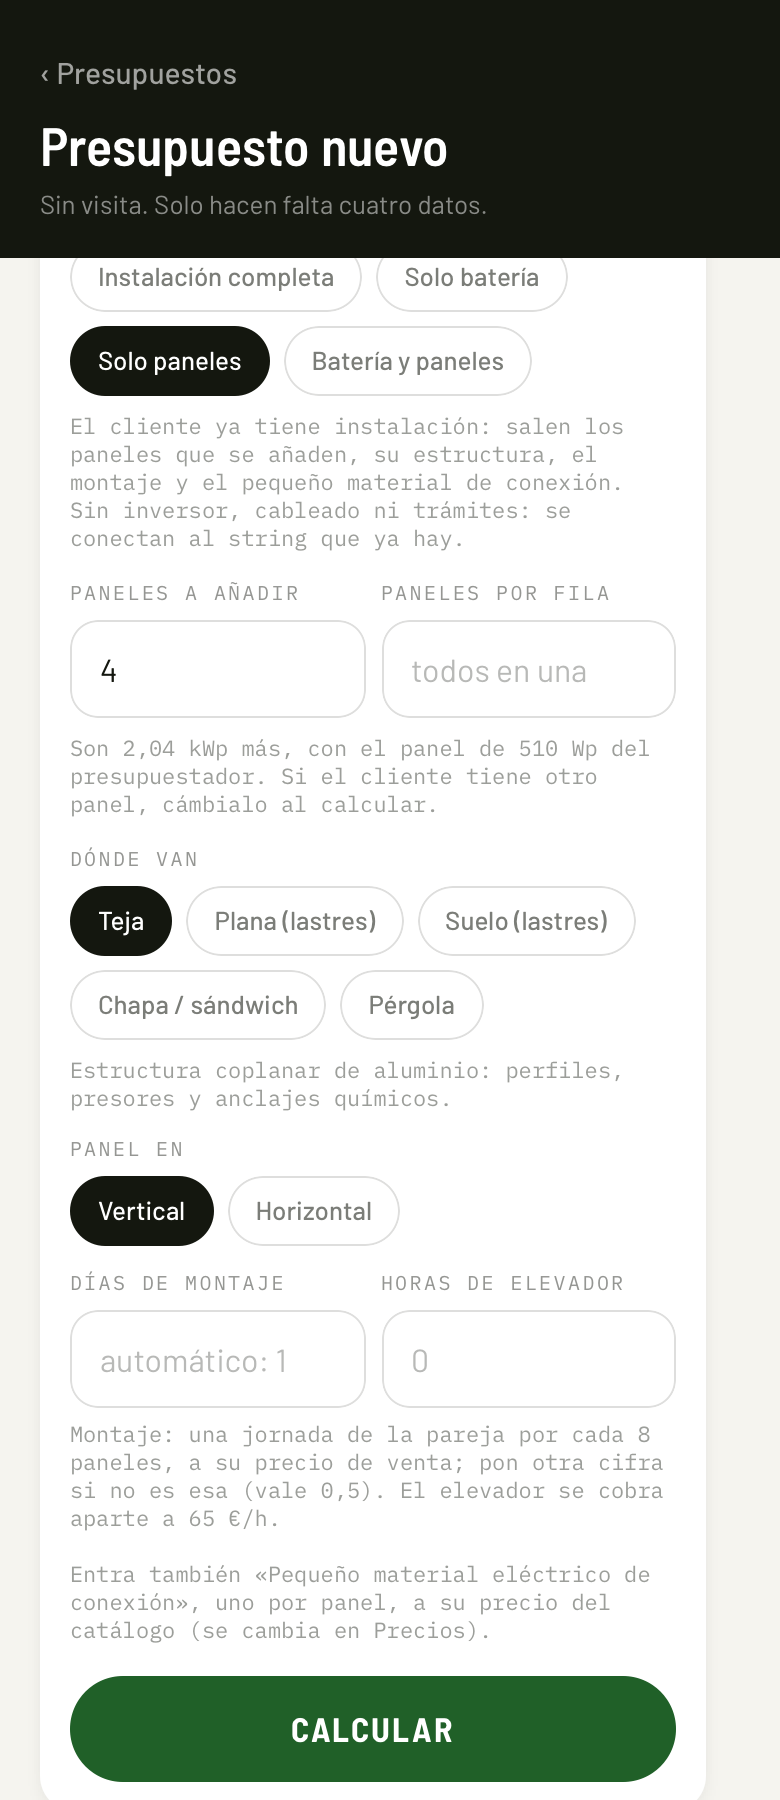
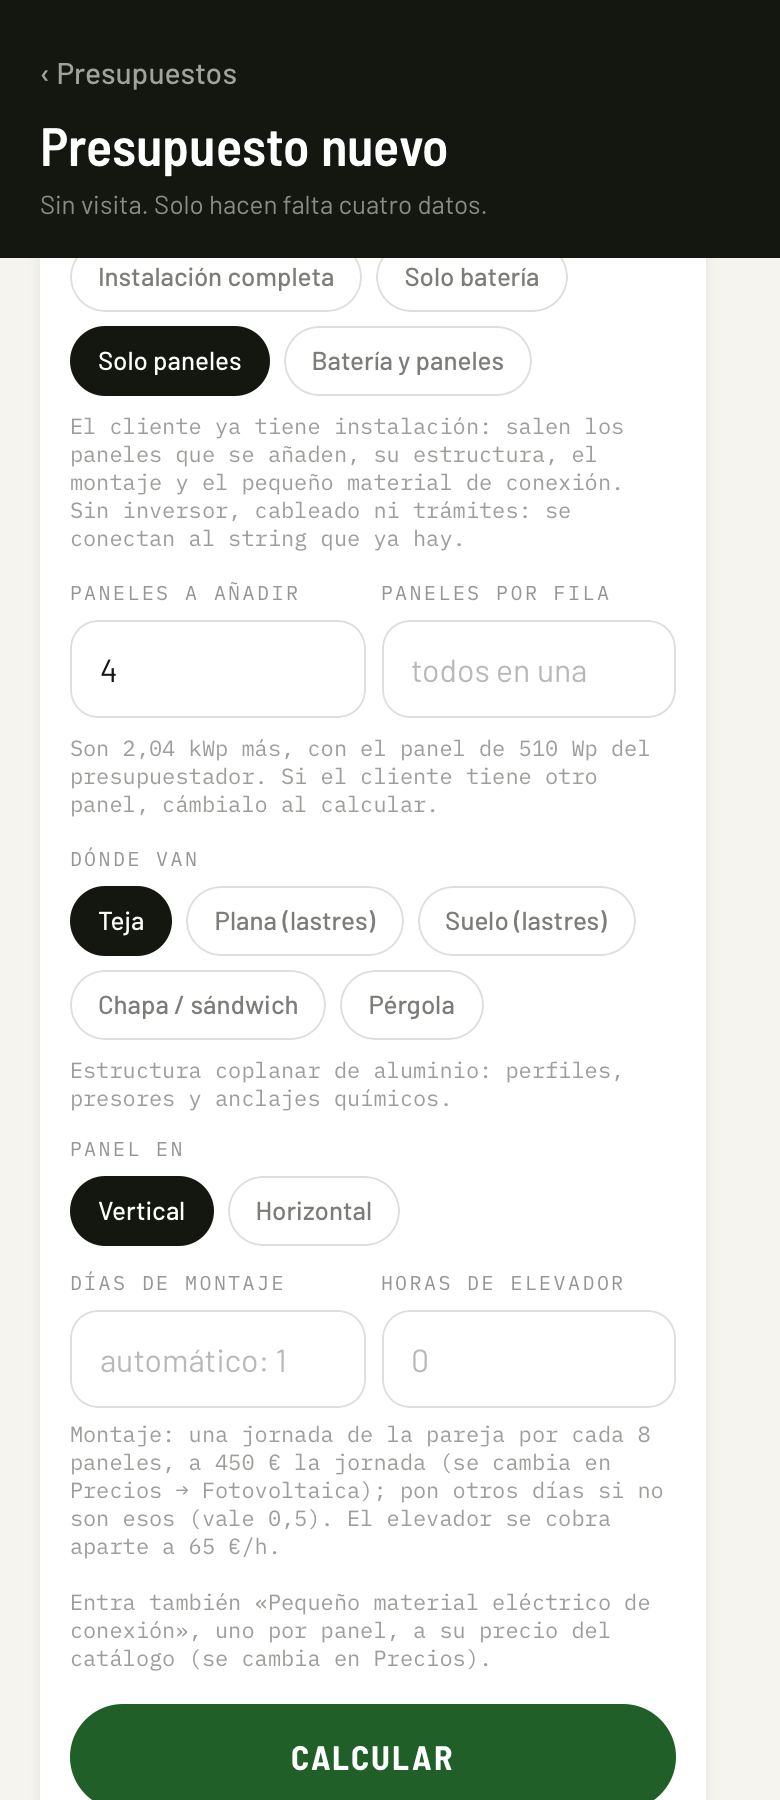
V34.4 (Enzo, 26-11-2026): la jornada de «solo paneles», a 450 €. «La mano de obra que se calcula automáticamente al colocar solo paneles, que sea 450, no 880.» La V34.1 cobraba el montaje de una ampliación a la jornada de una instalación completa (venta_jornada, 880 €). Ahora tiene su precio: el mod

Changed region(s): [[0.0923, 0.8089, 0.8615, 1.0], [0.7692, 0.8089, 0.8615, 0.84]]

diff --git a/manual/index.html b/manual/index.html
@@ -600,7 +600,7 @@ footer{margin-top:60px;padding-top:20px;border-top:1px solid var(--l1);color:var
     <div class="paso"><b class="n">·</b><div><b>En fotovoltaica</b>, el <b>certificado energético</b> va siempre en los trámites y se cobra a su precio del catálogo (se cambia en Ajustes → Precios, producto «Certificado energético»). Ya no se pregunta; solo queda poner su desplazamiento, si lo hay, que es coste.</div></div>
     <div class="paso"><b class="n">·</b><div><b>Solo batería</b> (fotovoltaica): si el cliente ya tiene placas, en <b>Alcance</b> elige <b>Solo batería</b>. Se pide el inversor que ya tiene, el suministro, los kWh, la marca y si es con backup. Salen la batería (los módulos que hagan falta para los kWh, con su base), su backup, <b>Instalación batería y pequeño material</b> y <b>Legalización</b>, estas dos a su precio del catálogo (Precios → Catálogo). No salen paneles, inversor ni estructura. Con Huawei, Deye y WECO el modelo de batería se elige después de calcular, en «Batería»; con Huawei entra además, con backup, el SmartGuard del suministro con su cable y, sin backup, el Smart Dongle (los dos a la vez no: Huawei indica instalar solo uno). En una visita es la casilla <b>Solo batería (ya tiene placas)</b> de la ficha de paneles solares. La app avisa de que compruebes que el inversor que tiene admite esa batería.</div></div>
     <figure style="margin:10px 0"><img src="img/pres-presu-solo-bateria.png" alt="Presupuesto de solo batería"><figcaption><b>Solo batería.</b> Sin paneles ni montaje: el inversor que ya tiene, la batería y el backup.</figcaption></figure>
-    <div class="paso"><b class="n">·</b><div><b>Solo paneles</b> (fotovoltaica): si el cliente ya tiene instalación y solo se le añaden paneles, en <b>Alcance</b> elige <b>Solo paneles</b>. Se pide cuántos se añaden, dónde van (teja, plana o suelo con lastres, chapa o pérgola), si van en vertical u horizontal y, si quieres, los paneles por fila, los días de montaje y las horas de elevador. Salen cuatro líneas: los <b>paneles</b>, su <b>estructura</b> (con su desglose por dentro), el <b>montaje</b> (una jornada de la pareja por cada 8 paneles, salvo que pongas otra cifra) y el <b>pequeño material eléctrico de conexión</b>, uno por panel, a su precio del catálogo (Precios → Catálogo). No salen inversor, cableado, protecciones ni trámites: los paneles se conectan al string que ya hay. En plana entran además las horas de elevador para subir los lastres; se quitan si no hacen falta. El presupuesto avisa de comprobar que el inversor y el string admiten esos paneles de más. Con <b>Batería y paneles</b> salen las dos cosas en un mismo presupuesto. En la visita, la casilla <b>Solo añadir paneles</b> de la ficha de paneles solares hace lo mismo con los «Módulos que caben».</div></div>
+    <div class="paso"><b class="n">·</b><div><b>Solo paneles</b> (fotovoltaica): si el cliente ya tiene instalación y solo se le añaden paneles, en <b>Alcance</b> elige <b>Solo paneles</b>. Se pide cuántos se añaden, dónde van (teja, plana o suelo con lastres, chapa o pérgola), si van en vertical u horizontal y, si quieres, los paneles por fila, los días de montaje y las horas de elevador. Salen cuatro líneas: los <b>paneles</b>, su <b>estructura</b> (con su desglose por dentro), el <b>montaje</b> (una jornada de la pareja por cada 8 paneles, salvo que pongas otra cifra, a 450 € la jornada; ese precio se cambia en Precios → Fotovoltaica, «Solo paneles: venta de la jornada de la pareja») y el <b>pequeño material eléctrico de conexión</b>, uno por panel, a su precio del catálogo (Precios → Catálogo). No salen inversor, cableado, protecciones ni trámites: los paneles se conectan al string que ya hay. En plana entran además las horas de elevador para subir los lastres; se quitan si no hacen falta. El presupuesto avisa de comprobar que el inversor y el string admiten esos paneles de más. Con <b>Batería y paneles</b> salen las dos cosas en un mismo presupuesto. En la visita, la casilla <b>Solo añadir paneles</b> de la ficha de paneles solares hace lo mismo con los «Módulos que caben».</div></div>
     <figure style="margin:10px 0"><img src="img/pres-presu-solo-paneles.png" alt="Presupuesto de solo paneles"><figcaption><b>Solo paneles.</b> Cuántos se añaden, dónde van y cómo se montan; sin inversor, cables ni trámites.</figcaption></figure>
     <figure style="margin:10px 0"><img src="img/pres-presu-nuevo-aire.png" alt="Aire acondicionado: potencia, metros y exterior de cada equipo"><figcaption><b>Un 2x1 y un 1x1 juntos.</b> Los equipos 1 y 2, de 25, van a la exterior 1; el 3, por sus m², a la exterior 2.</figcaption></figure>
     <div class="paso"><b class="n">3</b><div><span class="btn verde">Calcular</span>. Salen las líneas por secciones, los avisos y el total.</div></div>
@@ -1013,7 +1013,7 @@ footer{margin-top:60px;padding-top:20px;border-top:1px solid var(--l1);color:var
   <tr><td>Un cliente no está en la hoja de clientes</td><td>En su ficha, <b>Apuntarlo en la hoja</b>. Los que se crean desde la app van solos.</td></tr>
 </table>
 
-<footer>Manual de la app Sysefen · al día con la versión 34.3 (26-11-2026) · las pantallas son de ejemplo, con datos inventados · se regenera con <code>herramientas/manual/capturar.py</code></footer>
+<footer>Manual de la app Sysefen · al día con la versión 34.4 (26-11-2026) · las pantallas son de ejemplo, con datos inventados · se regenera con <code>herramientas/manual/capturar.py</code></footer>
 </main>
 </div>
 </body>

diff --git a/pruebas/motor-solar.js b/pruebas/motor-solar.js
@@ -563,7 +563,7 @@ var costeEst = Math.round(le.origen_inputs.desglose.reduce(function (s, x) { ret
 comprueba('la estructura en una línea con su desglose: su coste es la suma y su venta lleva el margen del modelo', le.cantidad === 1 && le.precio_coste === costeEst && costeEst > 0 && Math.abs(le.precio_tarifa - costeEst / (1 - PA('margen_obj'))) < 0.006);
 comprueba('en teja: perfiles, presores y anclajes, y nada de lastres', le.origen_inputs.desglose.some(function (x) { return x.nombre === 'Perfil G1 4,8 m'; }) && le.origen_inputs.desglose.some(function (x) { return /Pincho/.test(x.nombre); }) && !le.origen_inputs.desglose.some(function (x) { return /Lastre/.test(x.nombre); }));
 comprueba('sin filas apuntadas, una sola fila (el modelo contaría dos) y lo avisa', le.detalle_tecnico.indexOf('1 filas') > -1 && a4.incidencias.some(function (i) { return i.campo === 'filas_paneles'; }));
-comprueba('el montaje: una jornada de la pareja al precio de venta del modelo y a su coste', lm.cantidad === 1 && lm.precio_tarifa === PA('venta_jornada') && lm.precio_coste === Math.round(PA('horas_jornada') * (PA('eur_h_oficial') + PA('eur_h_peon')) * 100) / 100);
+comprueba('el montaje: una jornada de la pareja a 450 € (no los 880 € de una instalación completa) y a su coste', lm.cantidad === 1 && lm.precio_tarifa === 450 && VENTA_JORNADA_AMPLIACION === 450 && PA('venta_jornada') === 880 && lm.precio_coste === Math.round(PA('horas_jornada') * (PA('eur_h_oficial') + PA('eur_h_peon')) * 100) / 100);
 comprueba('ni inversor, ni medidor, ni cable, ni cuadros, ni trámites, ni elevador', a4.lineas.length === 3 && !a4.lineas.some(function (l) { return /nversor|Smart Meter|Cable|Cuadro|Legaliz|Document|Elevador|llave en mano/.test(l.descripcion); }));
 comprueba('todo en «Ampliación de paneles», con precio y marcado como del motor', a4.lineas.every(function (l) { return l.seccion === 'Ampliación de paneles' && l.precio_tarifa > 0 && l.confirmada && l.origen_inputs.auto === 'solo_paneles'; }));
 comprueba('avisa de comprobar el inversor y el string, de las jornadas y de la legalización; ningún error', a4.incidencias.every(function (i) { return i.nivel === 'aviso'; }) && a4.incidencias.some(function (i) { return i.mensaje.indexOf('admiten 4 paneles más') > 0; })
@@ -573,6 +573,9 @@ comprueba('la versión del motor lo dice, con el modelo', /solo paneles · FV v2
 igual('del catálogo entra el pequeño material, uno por panel', extrasSoloPaneles(PAN({ paneles_manual: 4 })).map(function (x) { return x.cantidad + '×' + x.producto_ref + ':' + x.seccion + ':' + x._auto; }).join(' | '), '4×' + SOLO_PANELES.pequeno_material + ':Ampliación de paneles:solo_paneles');
 var a10 = presupuestarSoloPaneles(PAN({ paneles_manual: 10, filas_paneles: [{ paneles: 5 }, { paneles: 5 }] }), modAmp, config);
 comprueba('10 paneles en dos filas: dos jornadas, estructura de dos filas y sin aviso de filas', lin(a10, 'Montaje').cantidad === 2 && lin(a10, 'Estructura coplanar').detalle_tecnico.indexOf('2 filas') > -1 && !a10.incidencias.some(function (i) { return i.campo === 'filas_paneles'; }));
+var modAmp500 = JSON.parse(JSON.stringify(modAmp)); modAmp500.datos.parametros.venta_jornada_ampliacion = { valor: 500, ud: '€' };
+comprueba('si el modelo trae su precio de jornada de solo paneles, manda ese', lin(presupuestarSoloPaneles(PAN({ paneles_manual: 4 }), modAmp500, config), 'Montaje').precio_tarifa === 500);
+comprueba('una instalación completa sigue a su jornada: el parámetro nuevo no la toca', calcularFV({ paneles_forzado: 10 }, modAmp500.datos, {}).mo_tabla.venta_jornada === 880);
 comprueba('con los días de montaje a mano, esos', lin(presupuestarSoloPaneles(PAN({ paneles_manual: 10, jornadas_montaje: 1.5 }), modAmp, config), 'Montaje').cantidad === 1.5);
 var aPl = presupuestarSoloPaneles(PAN({ paneles_manual: 6, tipo_cubierta: 'plana_transitable' }), modAmp, config);
 var lePl = lin(aPl, 'Estructura con lastres');

diff --git a/supabase/functions/presupuestar/hibrido.js b/supabase/functions/presupuestar/hibrido.js
@@ -305,8 +305,9 @@ export function extrasSoloBateria(datos) {
 //     Ballast. En una sola línea, con su desglose por dentro. Chapa y pérgola no
 //     están en el modelo: salen de las reglas del capítulo 02, como en una
 //     instalación completa, con sus precios pendientes de confirmar;
-//   · el montaje: jornadas de la pareja al precio de venta del modelo
-//     (parametros.venta_jornada). Una jornada por cada 8 paneles
+//   · el montaje: jornadas de la pareja a 450 € (parametros.venta_jornada_ampliacion;
+//     no los 880 € de venta_jornada, que son los de una instalación completa).
+//     Una jornada por cada 8 paneles
 //     (parametros.paneles_por_jornada_extra, lo mismo que el modelo cuenta por
 //     cada 8 paneles de más en una instalación grande), o las que se pongan a mano;
 //   · el elevador, si hay horas apuntadas (en plana, las mínimas del modelo,
@@ -317,6 +318,7 @@ export function extrasSoloBateria(datos) {
 // =============================================================================
 export const SOLO_PANELES = { pequeno_material: 'SY-PEQUENO-MATERIAL-ELECTRICO-AMPLIACION-PANELES' };
 const SEC_PANELES = 'Ampliación de paneles';
+export const VENTA_JORNADA_AMPLIACION = 450;
 /** ¿Se añaden paneles a una instalación que ya existe? (la casilla de la ficha o del presupuesto sin visita) */
 export function esSoloPaneles(datos) { return !!datos && siHib(datos.solo_paneles); }
 /** Cuántos paneles se añaden: los puestos a mano o, en la visita, los que caben. */
@@ -400,7 +402,11 @@ export function presupuestarSoloPaneles(datos, mod, cfg) {
   // --- el montaje
   const jornadas = jornadasAmpliacion(n, modelo, datos.jornadas_montaje);
   const aMano = numHib(datos.jornadas_montaje) > 0;
-  const ventaJornada = numHib(P.venta_jornada) > 0 ? numHib(P.venta_jornada) : r2(conMargen(r.jornada));
+  // La jornada de solo paneles se vende a 450 € (Enzo, 26-11-2026: «la mano de obra al
+  // colocar solo paneles, que sea 450, no 880»), no a la de una instalación completa
+  // (venta_jornada). Va en el modelo, parametros.venta_jornada_ampliacion, y se cambia en
+  // Precios → Fotovoltaica; si el modelo no lo trae, 450.
+  const ventaJornada = numHib(P.venta_jornada_ampliacion) > 0 ? numHib(P.venta_jornada_ampliacion) : VENTA_JORNADA_AMPLIACION;
   lineas.push(linea({
     descripcion: 'Montaje de los paneles y conexión a la instalación existente',
     detalle_tecnico: 'Montaje por personal propio (oficial y ayudante): estructura, módulos, conexión al string existente y pruebas',

diff --git a/supabase/functions/presupuestar/precios.js b/supabase/functions/presupuestar/precios.js
@@ -98,7 +98,7 @@ export function ponerRutaFV(datos, ruta, valor, opciones) {
 const NOMBRES_PARAM = {
   margen_obj: 'Margen objetivo sobre la venta (0,5 = 50 %)', redondeo: 'Redondeo del precio (múltiplos de)',
   venta_jornada: 'Mano de obra: venta de la jornada de la pareja', venta_documentacion: 'Documentación y legalización: precio de venta',
-  horas_documentacion: 'Documentación y legalización: horas de Xavi', venta_jornada_bateria: 'Jornada de batería (solo si no hay venta por jornada)',
+  horas_documentacion: 'Documentación y legalización: horas de Xavi', venta_jornada_bateria: 'Jornada de batería (solo si no hay venta por jornada)', venta_jornada_ampliacion: 'Solo paneles: venta de la jornada de la pareja',
   pvp_elev: 'Elevador: precio de venta por hora', horas_elev_plana: 'Elevador en cubierta plana: horas',
   eur_h: 'Coste de la hora de técnico y oficina', eur_h_oficial: 'Coste de la hora del oficial', eur_h_peon: 'Coste de la hora del peón',
   horas_jornada: 'Horas de una jornada', eur_km: 'Coste del kilómetro', vel_media: 'Velocidad media para los trayectos',
@@ -112,7 +112,7 @@ const NOMBRES_PARAM = {
   panel_vmp: 'Tensión Vmp del panel', panel_imp: 'Corriente Imp del panel', cdt_max_cc: 'Caída de tensión máxima en continua', conductividad_cu: 'Conductividad del cobre',
 };
 const GRUPOS_PARAM = [
-  ['Precios de venta y margen', ['margen_obj', 'redondeo', 'venta_jornada', 'venta_documentacion', 'horas_documentacion', 'venta_jornada_bateria', 'pvp_elev', 'horas_elev_plana', 'iva']],
+  ['Precios de venta y margen', ['margen_obj', 'redondeo', 'venta_jornada', 'venta_jornada_ampliacion', 'venta_documentacion', 'horas_documentacion', 'venta_jornada_bateria', 'pvp_elev', 'horas_elev_plana', 'iva']],
   ['Costes de personal y desplazamiento', ['eur_h', 'eur_h_oficial', 'eur_h_peon', 'horas_jornada', 'eur_km', 'vel_media']],
   ['Compras', ['coste_panel', 'portes_baywa', 'portes_rebacas', 'dto_rebacas', 'dto_saltoki', 'pct_peq']],
 ];

diff --git a/index.html b/index.html
@@ -569,7 +569,7 @@ import * as idiomas from './presu-idiomas.js';
 window.Sysefen = { supabase, auth: sysAuth, db: sysDB };
 
 const KEY = 'ch_v1';
-const APP_VERSION = '34.3'; // versión visible de la app (única fuente)
+const APP_VERSION = '34.4'; // versión visible de la app (única fuente)
 const $ = (s) => document.querySelector(s);
 const esc = (v) => String(v == null ? '' : v).replace(/[&<>"']/g, (c) => ({ '&': '&amp;', '<': '&lt;', '>': '&gt;', '"': '&quot;', "'": '&#39;' }[c]));
 const uid = () => Date.now().toString(36) + Math.random().toString(36).slice(2, 7);
@@ -12146,7 +12146,7 @@ function camposSolarHTML(f) {
         <div class="grow"><div class="lbl">Horas de elevador</div>
           <input class="inp" data-f="presuCampo" data-k="horas_elev" value="${esc(String(f.horas_elev ?? ''))}" inputmode="decimal" placeholder="0" style="margin-top:8px"></div>
       </div>
-      <div class="tiny" style="margin-top:6px">Montaje: una jornada de la pareja por cada 8 paneles, a su precio de venta; pon otra cifra si no es esa (vale 0,5). El elevador se cobra aparte a 65 €/h.</div>
+      <div class="tiny" style="margin-top:6px">Montaje: una jornada de la pareja por cada 8 paneles, a 450 € la jornada (se cambia en Precios → Fotovoltaica); pon otros días si no son esos (vale 0,5). El elevador se cobra aparte a 65 €/h.</div>
       <div class="tiny" style="margin-top:14px">Entra también «Pequeño material eléctrico de conexión», uno por panel, a su precio del catálogo (se cambia en Precios).</div>`;
     return modo + `<div class="tiny" style="margin-top:8px">${intro}</div>` + bateria + paneles;
   }

diff --git a/sw.js b/sw.js
@@ -1,4 +1,4 @@
-const CACHE = 'ch-v34-3';
+const CACHE = 'ch-v34-4';
 const ASSETS = ['./', './index.html', './manifest.webmanifest', './supabase-client.js', './supabase-auth.js', './supabase-db.js', './visitas-schemas.js', './visitas-form.js', './visitas-db.js', './presu-idiomas.js', './icon-192.png?v=2', './icon-512.png?v=2', './icon-maskable.png?v=2', './logo-trans.png?v=3', './logo-blanco.png?v=3', './logo-s-blanco.png?v=2', './fondo-login.jpg'];
 
 // Al instalarse una versión nueva NO se activa sola: se queda esperando y la
